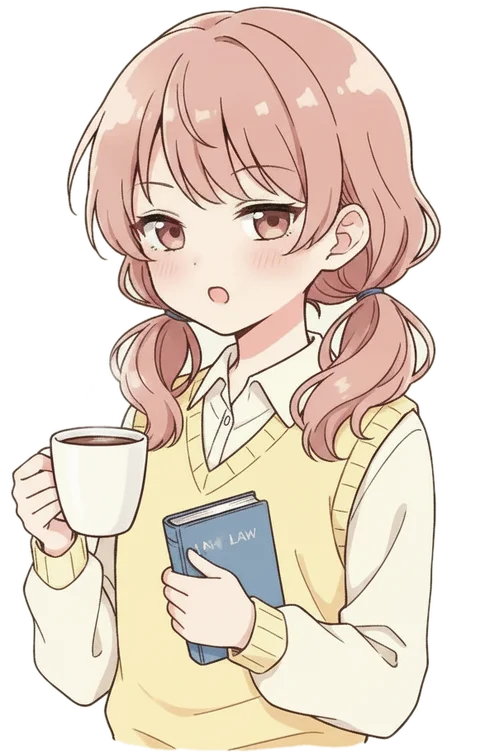
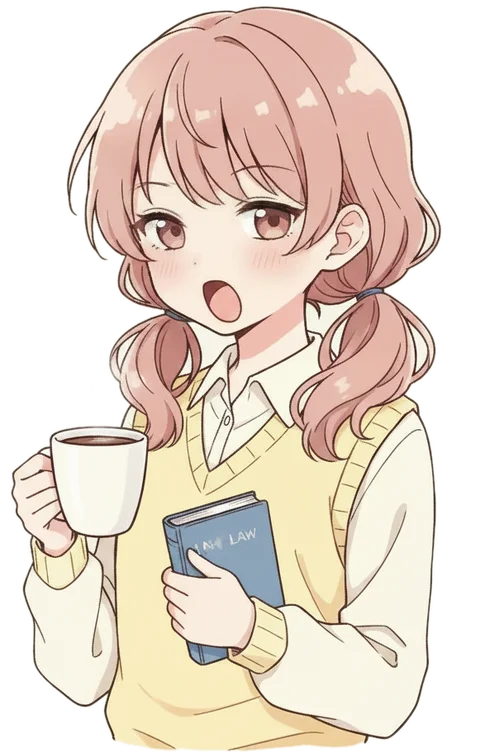
T065 仕草を多めに（4〜8秒で最初、その後7〜14秒ごと。衣装の動作は4割）、寝そべるまでを長く。ニットにも仕草・口パクなどを入れる。口がほとんど動かなかった口パクの絵を作り直し

Changed region(s): [[0.375, 0.2444, 0.6562, 0.336], [0.2812, 0.2749, 0.4062, 0.336], [0.4062, 0.3665, 0.5, 0.4276]]

diff --git a/app/src/Ritsu.tsx b/app/src/Ritsu.tsx
@@ -166,23 +166,32 @@ export function RitsuDock({
   const speaking = useSpeaking();
   const motion = motionOf(currentTheme());
   const [gesture, setGesture] = useState<string | null>(null);
-  // 待っている間の仕草：14〜30秒にいちど、2秒ほど
+  // 待っている間の仕草：最初は4〜8秒、そのあと7〜14秒ごとに2秒ほど。衣装の動作は多めに（4割）。
+  // 寝そべる（しばらく操作がない）までに何度か見られるように（30秒で寝そべっていて、ほとんど見られなかった：ユーザー）
   useEffect(() => {
     if (!lively || pose !== "sit") return;
     const idleGestures = motion.gestures.filter((g) => ["yawn", "stretch", "rub", "sip", "signature"].includes(g));
     if (!idleGestures.length) return;
     let t: number;
     let end: number;
-    const schedule = () => {
-      t = window.setTimeout(() => {
-        setGesture(idleGestures[Math.floor(Math.random() * idleGestures.length)]);
-        end = window.setTimeout(() => {
-          setGesture(null);
-          schedule();
-        }, 2000);
-      }, 14000 + Math.random() * 16000);
+    const others = idleGestures.filter((g) => g !== "signature");
+    const pick = () =>
+      idleGestures.includes("signature") && (Math.random() < 0.4 || !others.length)
+        ? "signature"
+        : others[Math.floor(Math.random() * others.length)];
+    const schedule = (first: boolean) => {
+      t = window.setTimeout(
+        () => {
+          setGesture(pick());
+          end = window.setTimeout(() => {
+            setGesture(null);
+            schedule(false);
+          }, 2200);
+        },
+        first ? 4000 + Math.random() * 4000 : 7000 + Math.random() * 7000,
+      );
     };
-    schedule();
+    schedule(true);
     return () => {
       window.clearTimeout(t);
       window.clearTimeout(end);
@@ -292,7 +301,7 @@ export function useIdle(ms: number): boolean {
  */
 export function TabRitsu() {
   const level = progressNow().level;
-  const idle = useIdle(30000);
+  const idle = useIdle(75000);
   const [line, setLine] = useState<Line | undefined>(undefined);
   const theme = currentTheme();
   return (

diff --git a/app/src/screens/Home.tsx b/app/src/screens/Home.tsx
@@ -38,7 +38,7 @@ function QuickStart({
   const scopeName = scoped.length > 0 ? scoped[0].name : "全科目";
   const [showChar] = useState(characterOn);
   const p = progressNow();
-  const idle = useIdle(30000); // しばらく触らないと寝そべって本を読む
+  const idle = useIdle(75000); // しばらく触らないと寝そべって本を読む（その前に仕草を何度か見せる）
   // 律のひとこと（T065）。描き直しても変わらないよう、種から選ぶ。律を押すと種を変えて、声つきで言い直す
   const [seed, setSeed] = useState(() => Math.floor(Math.random() * 233280));
   const lineFor = (sd: number) =>

diff --git a/app/src/QuestionDrill.tsx b/app/src/QuestionDrill.tsx
@@ -15,7 +15,7 @@ export default function QuestionDrill({ info, data, onExit }: { info: SetInfo; d
   const [picks, setPicks] = useState<(number | null)[]>(() => emptyPicks(data.questions[0]));
   const [result, setResult] = useState<Grade | null>(null);
   const [showChar] = useState(characterOn);
-  const idle = useIdle(60000);
+  const idle = useIdle(120000);
   const [scores, setScores] = useState<QuestionResultItem[]>([]);
   const [startedAt, setStartedAt] = useState(() => Date.now());
   const [finishedAt, setFinishedAt] = useState<number | null>(null);

diff --git a/app/src/StatementDrill.tsx b/app/src/StatementDrill.tsx
@@ -47,7 +47,7 @@ export default function StatementDrill({
   const [showChar] = useState(characterOn);
   // はじき方の案内は、律の吹き出しで1回だけ（答えたら覚える）。2回目からは今までどおりの小さな文字
   const [swipeTip] = useState(() => showChar && !tipSeen("swipe"));
-  const idle = useIdle(40000);
+  const idle = useIdle(90000);
   const [order, setOrder] = useState<Statement[]>(cards);
   const [i, setI] = useState(0);
   const [answer, setAnswer] = useState<boolean | null>(null);

diff --git a/app/src/ritsu/themes.ts b/app/src/ritsu/themes.ts
@@ -46,7 +46,7 @@ export const THEMES: Theme[] = [
     level: 3,
     bg: "window",
     desc: "冬のはじめのお休みの日。日の当たる窓辺で、ココアを飲みながら小さな六法を読む。いつものベストを脱いだ、初めての私服",
-    motion: { blink: ["normal", "smile", "think", "sad", "smug", "jito"], swing: ["normal", "think", "smile"], kick: true, hop: [], mid: true, gestures: [], talk: [], talkBase: [] },
+    motion: { ...FULL_MOTION },
   },
 ];
 
